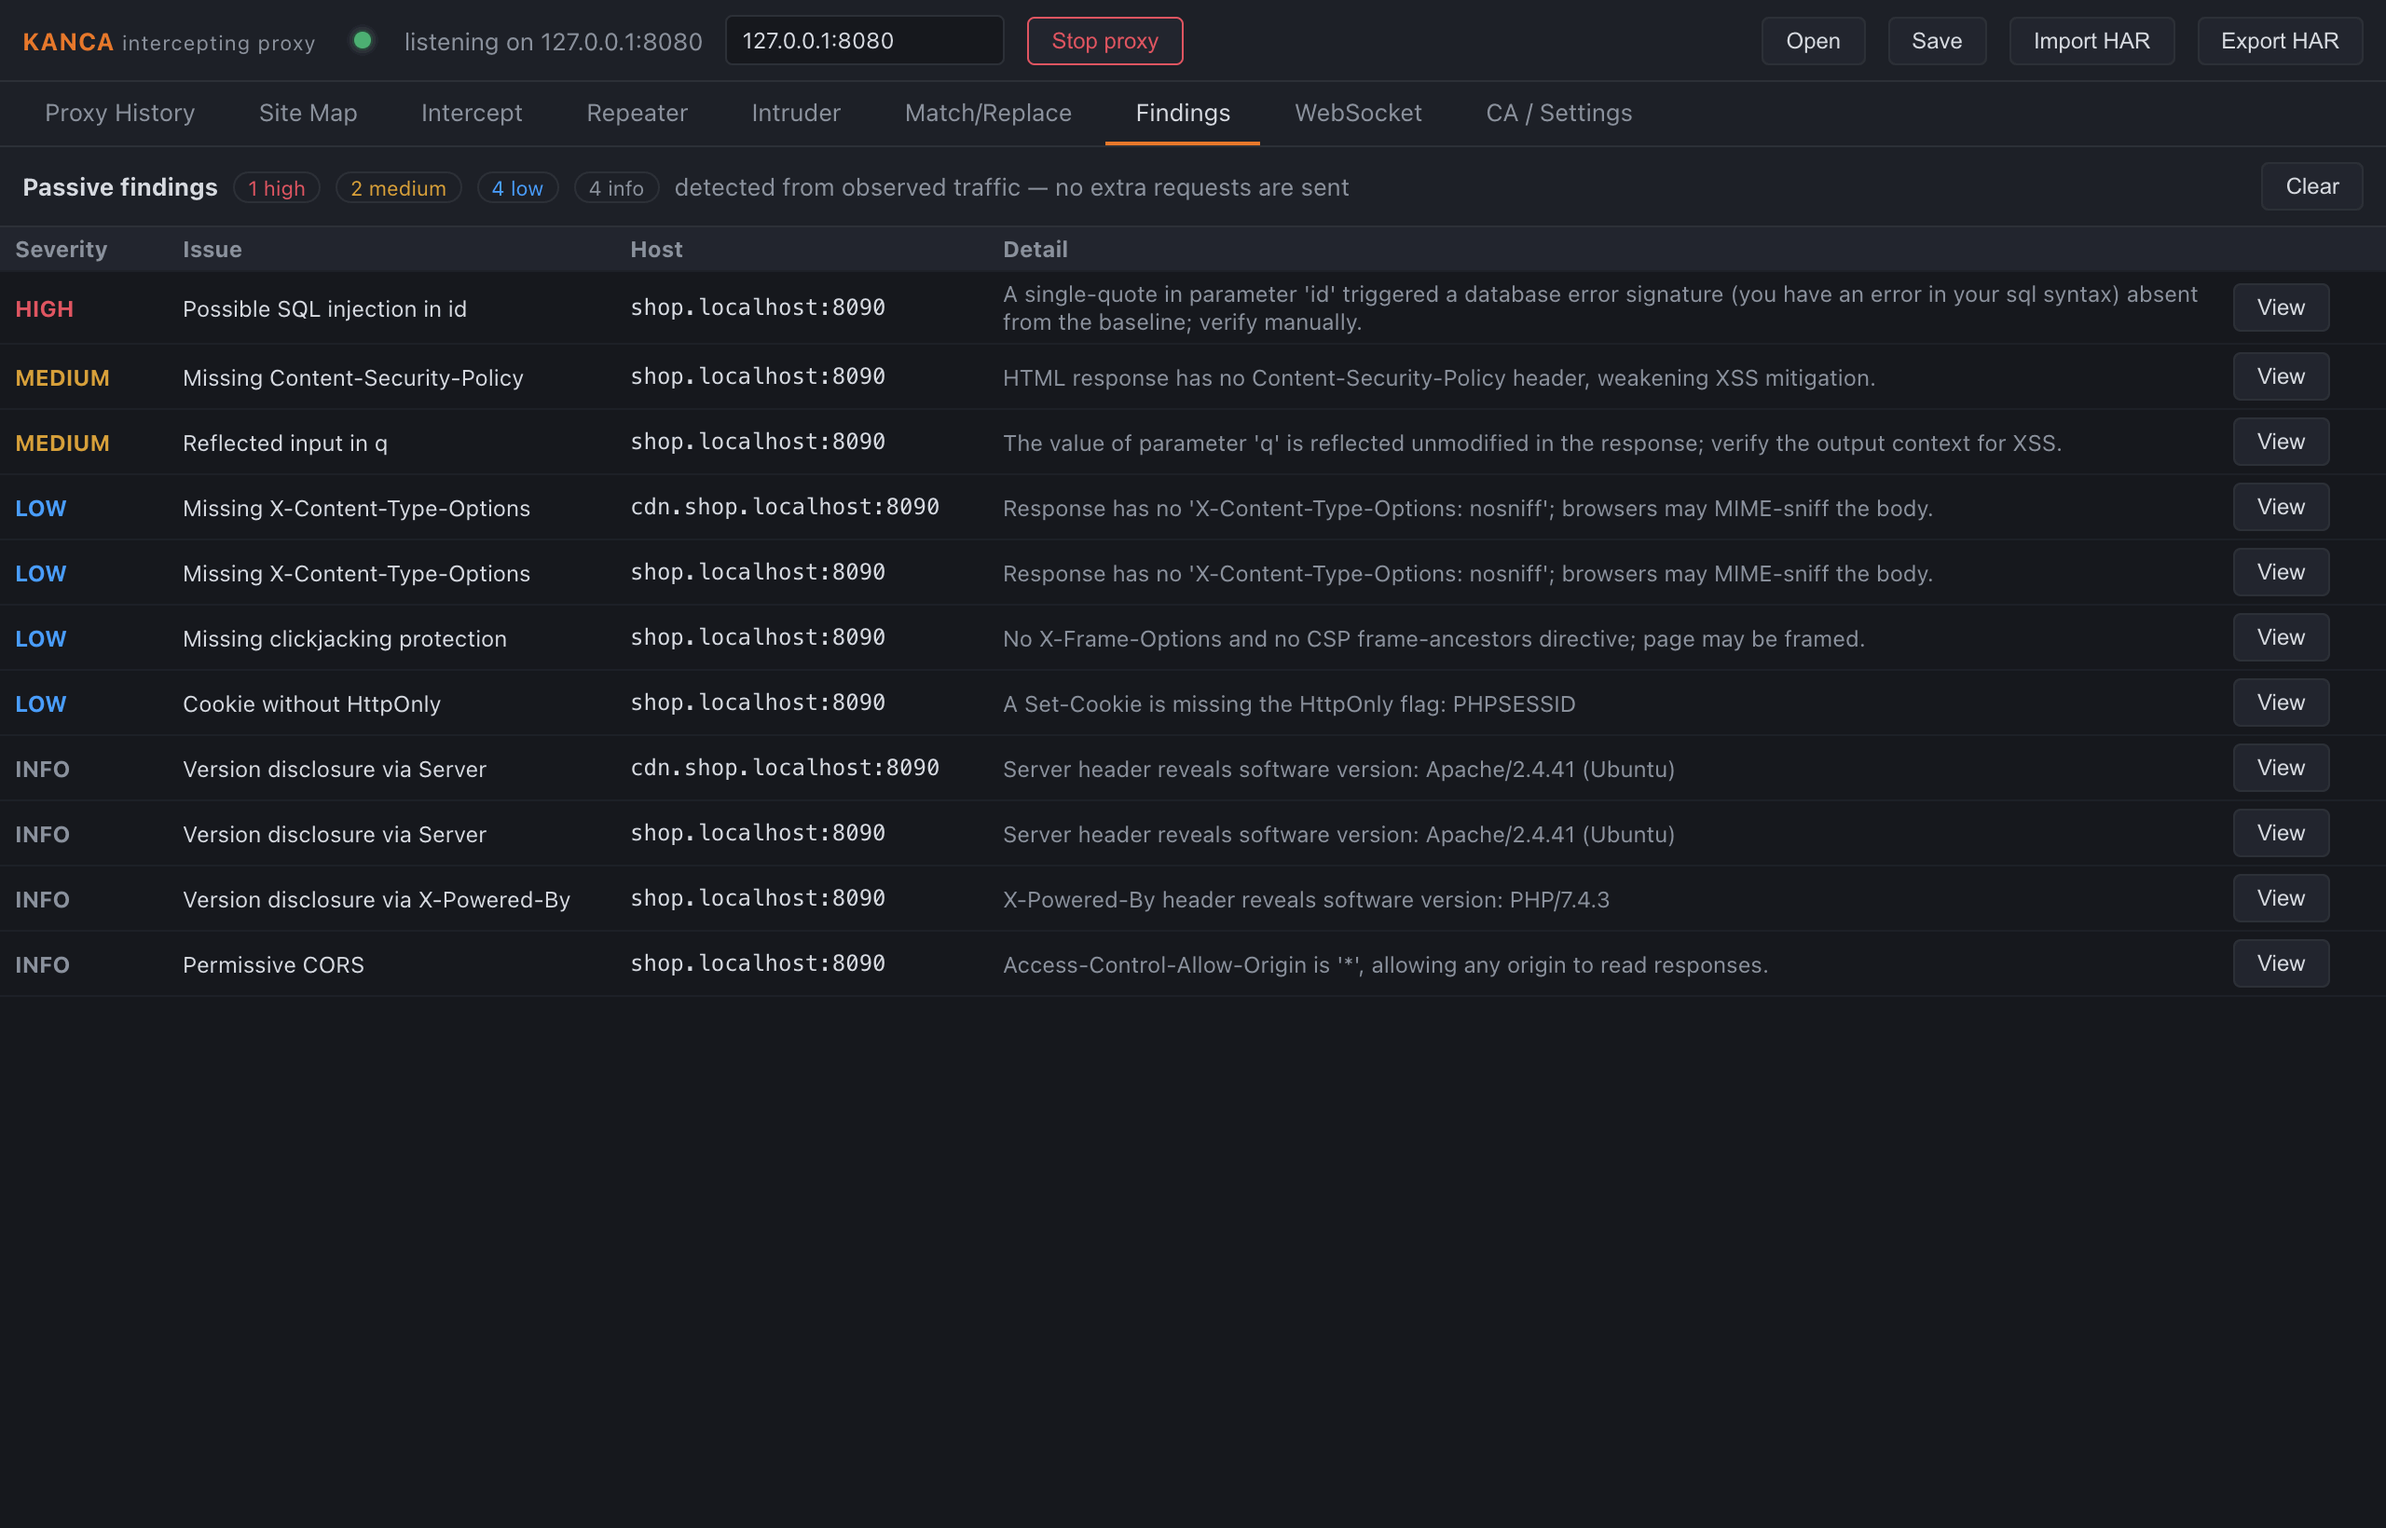
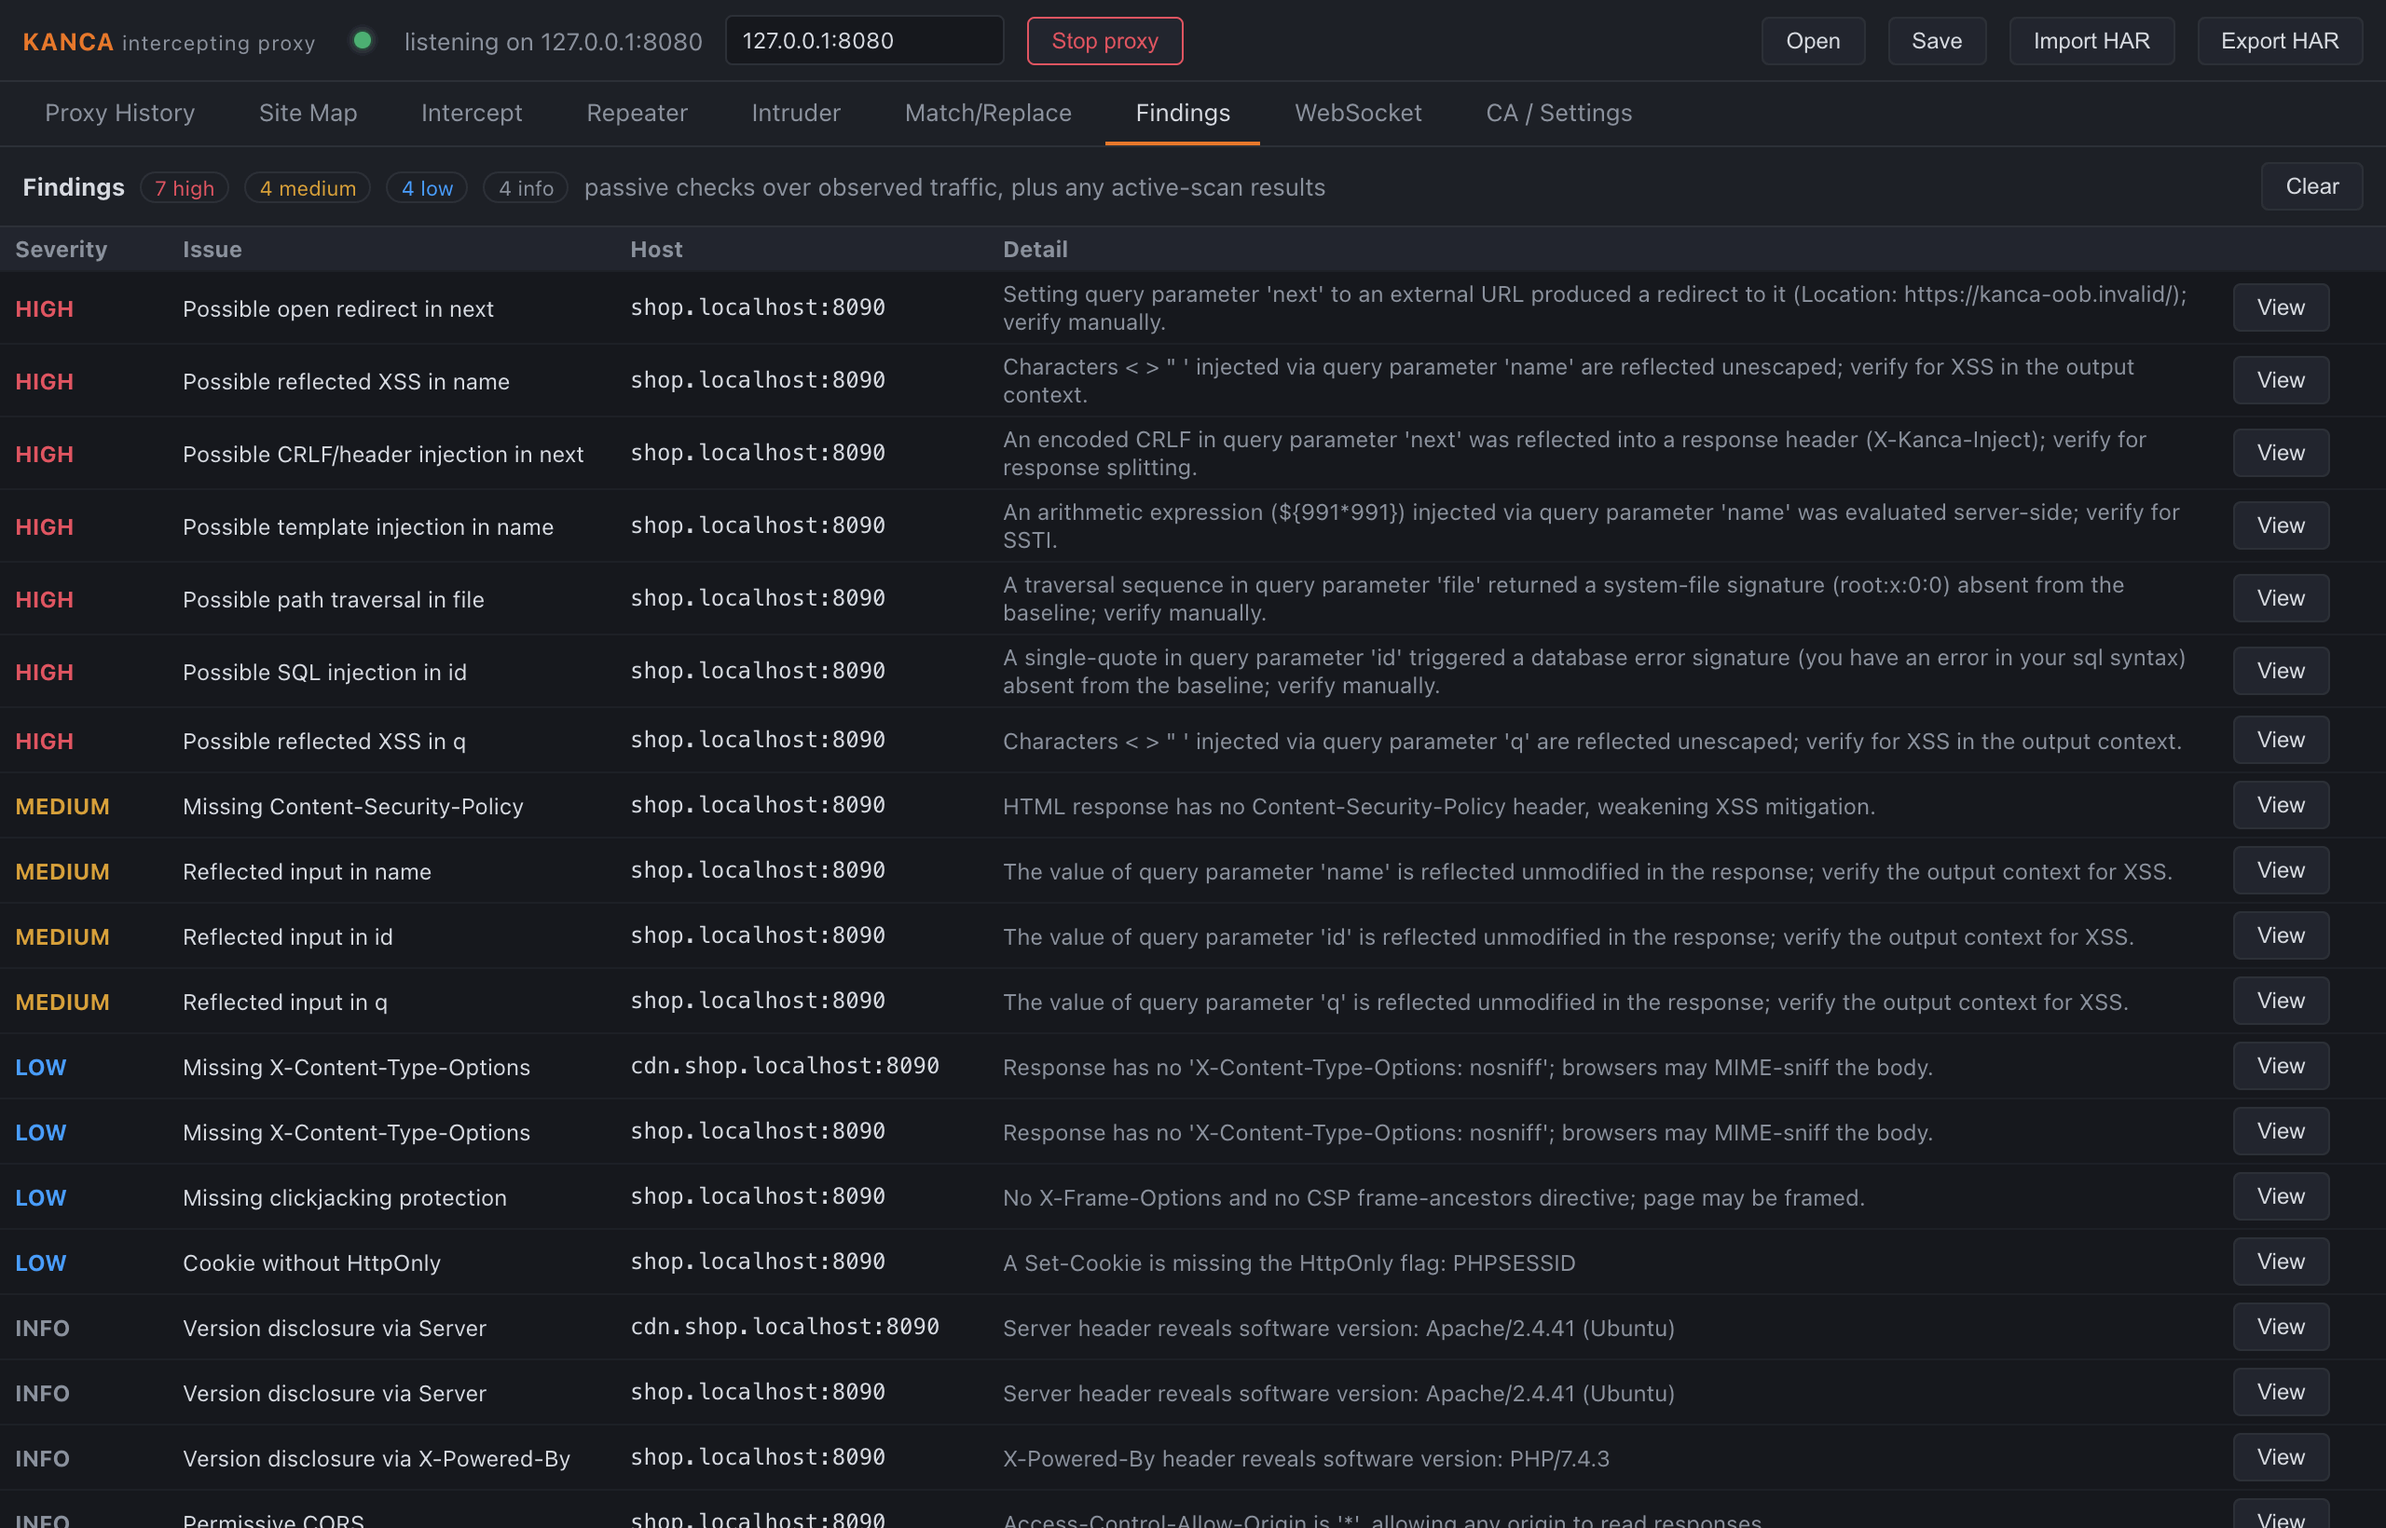
Document the expanded active scanner and refresh the Findings screenshot

diff --git a/README.tr.md b/README.tr.md
@@ -36,7 +36,7 @@ fuzzlamanıza olanak tanır.
     <td width="50%"><img src="assets/screenshots/intruder.png" alt="Intruder"><br><sub><b>Intruder</b> — 1–30 arası kullanıcı ID'leri taranıyor; grep-match iki admin hesabını işaretliyor.</sub></td>
   </tr>
   <tr>
-    <td width="50%"><img src="assets/screenshots/findings.png" alt="Bulgular"><br><sub><b>Bulgular</b> — pasif header/cookie kontrolleri ve aktif tarama ipuçları.</sub></td>
+    <td width="50%"><img src="assets/screenshots/findings.png" alt="Bulgular"><br><sub><b>Bulgular</b> — pasif header/cookie kontrolleri ve aktif tarama ipuçları (XSS, SQLi, path traversal, SSTI, open redirect, CRLF).</sub></td>
     <td width="50%"><img src="assets/screenshots/sitemap.png" alt="Site haritası"><br><sub><b>Site haritası</b> — yakalanan endpoint'ler host bazlı bir ağaç olarak.</sub></td>
   </tr>
 </table>
@@ -58,7 +58,7 @@ fuzzlamanıza olanak tanır.
 | **Match & replace** | Hattın üzerinde uygulanan regex değişimleri — giden isteklerin ve gelen yanıtların istek satırını, bir header'ı veya gövdesini yeniden yazın (Content-Length doğru tutulur). |
 | **Gövde arama** | Sadece method/host/path değil, istek/yanıt gövdelerinde de geçmişi filtreleyin. |
 | **Pasif tarayıcı** | Gözlemlenen trafikten güvenlik sorunlarını işaretler (eksik CSP/HSTS/X-Content-Type-Options, güvensiz cookie'ler, gevşek CORS, sürüm ifşası) — ek bir istek göndermeden. |
-| **Aktif tarayıcı** | Talep üzerine, tek bir istek için küçük ve sınırlı sayıda **yıkıcı olmayan** prob gönderir — girdi yansıması ve hataya dayalı enjeksiyon belirtileri — yalnızca kapsam içindeki host'larla sınırlı. Sadece tespit amaçlıdır: elle doğrulanacak ipuçlarını işaretler, asla istismar (exploitation) girişiminde bulunmaz. |
+| **Aktif tarayıcı** | Talep üzerine, tek bir isteğin insertion point'lerini — query, form gövdesi ve JSON gövdesi parametreleri — yansıyan girdi/XSS, hataya dayalı SQL enjeksiyonu, path traversal, open redirect, template enjeksiyonu (SSTI) ve CRLF/header enjeksiyonu için dener; yalnızca kapsam içindeki host'larla sınırlı. Opt-in bir **agresif** mod, boolean ve time-based SQLi ile time-based komut enjeksiyonu kontrollerini ekler (bunlar hedefi gözlemlenebilir şekilde çalıştırır). Sadece tespit amaçlıdır: her kontrol bir baseline ile karşılaştırma yapar ve elle doğrulanacak bir ipucu işaretler — asla istismar (exploitation) girişiminde bulunmaz. |
 | **Kaydet / içe-dışa aktar** | Tam bir oturumu (flow'lar, kurallar, bulgular, kapsam) bir proje dosyasına kaydedip sonra tekrar açın; yakalanan trafiği HAR 1.2 olarak dışa aktarın ve başka araçlardan HAR yakalamalarını içe aktarın. |
 | **WebSocket desteği** | `ws://` ve `wss://` upgrade'leri şeffaf biçimde köprülenir (normal HTTP için hop-by-hop olarak `Upgrade`/`Connection` header'ları temizlendiğinden eskiden bu bağlantılar bozulurdu) — canlı, bağlantı başına frame kaydıyla birlikte; sıfırdan yazılmış RFC 6455 framing, harici bağımlılık yok. |
 

diff --git a/README.md b/README.md
@@ -33,7 +33,7 @@ every transaction, and lets you pause, edit, replay and fuzz requests.
     <td width="50%"><img src="assets/screenshots/intruder.png" alt="Intruder"><br><sub><b>Intruder</b> — enumerating user IDs 1–30; grep-match flags the two admin accounts.</sub></td>
   </tr>
   <tr>
-    <td width="50%"><img src="assets/screenshots/findings.png" alt="Findings"><br><sub><b>Findings</b> — passive header/cookie checks plus active-scan leads.</sub></td>
+    <td width="50%"><img src="assets/screenshots/findings.png" alt="Findings"><br><sub><b>Findings</b> — passive header/cookie checks plus active-scan leads (XSS, SQLi, path traversal, SSTI, open redirect, CRLF).</sub></td>
     <td width="50%"><img src="assets/screenshots/sitemap.png" alt="Site map"><br><sub><b>Site map</b> — captured endpoints as a per-host tree.</sub></td>
   </tr>
 </table>
@@ -55,7 +55,7 @@ every transaction, and lets you pause, edit, replay and fuzz requests.
 | **Match & replace** | Regex substitutions applied on the wire — rewrite the request line, a header, or the body of outbound requests and inbound responses (Content-Length is kept correct). |
 | **Body search** | Filter the history across request/response bodies, not just method/host/path. |
 | **Passive scanner** | Flags security issues from observed traffic (missing CSP/HSTS/X-Content-Type-Options, insecure cookies, permissive CORS, version disclosure) without sending any extra requests. |
-| **Active scanner** | On demand, sends a small, bounded set of **non-destructive** probes for one request — input reflection and error-based injection indicators — restricted to in-scope hosts. Detection-only: it flags leads to verify by hand, never attempts exploitation. |
+| **Active scanner** | On demand, probes one request's insertion points — query, form-body and JSON-body parameters — for reflected input/XSS, error-based SQL injection, path traversal, open redirect, template injection (SSTI) and CRLF/header injection, restricted to in-scope hosts. An opt-in **aggressive** mode adds boolean- and time-based SQLi and time-based command-injection checks (these make the target do observable work). Detection-only: every check compares against a baseline and flags a lead to verify by hand — it never attempts exploitation. |
 | **Save / import / export** | Save a full session (flows, rules, findings, scope) to a project file and reopen it later; export captured traffic as HAR 1.2 and import HAR captures from other tools. |
 | **WebSocket support** | `ws://` and `wss://` upgrades are bridged transparently (they used to break, since `Upgrade`/`Connection` are stripped as hop-by-hop for ordinary HTTP) with a live, per-connection frame log — hand-rolled RFC 6455 framing, no dependency. |
 
